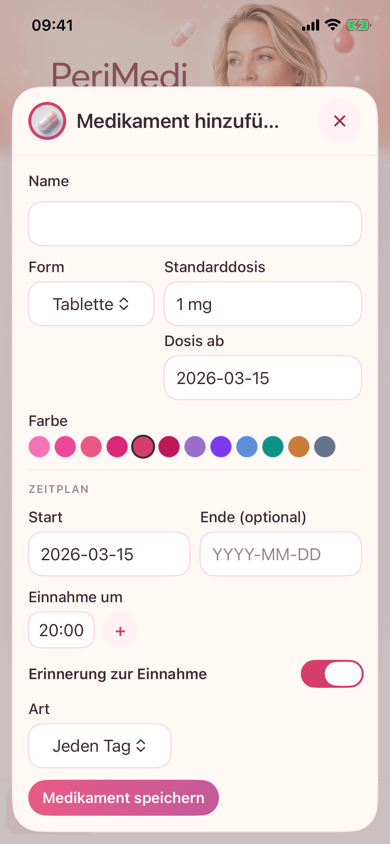
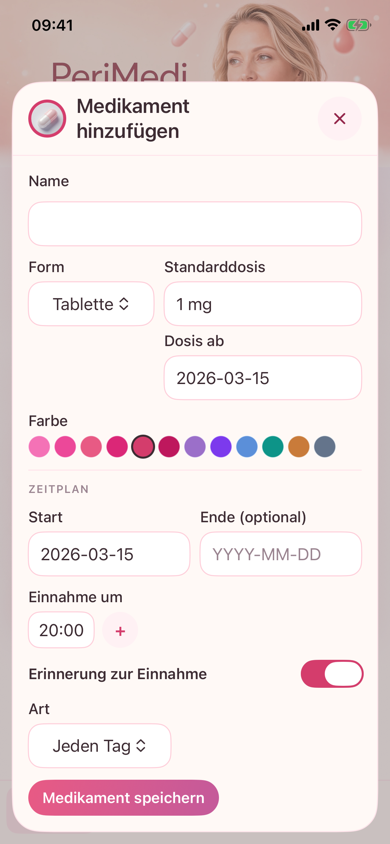
Show the full German add-medication sheet title
Wrap the dialog header so “Medikament hinzufügen” is fully visible.
Banner artwork stays unchanged.

Changed region(s): [[0.0308, 0.0924, 0.9538, 0.1848]]

diff --git a/ios/PeriMedi/Features/Sheets/DialogChrome.swift b/ios/PeriMedi/Features/Sheets/DialogChrome.swift
@@ -40,13 +40,12 @@ struct DialogChrome<Content: View, Footer: View>: View {
 
     @Environment(\.dialogMaxHeight) private var maxHeight
     @State private var bodyHeight: CGFloat = 360
+    @State private var headerHeight: CGFloat = 69
     @State private var footerHeight: CGFloat = 0
-
-    private let headerHeight: CGFloat = 69
 
     var body: some View {
         VStack(spacing: 0) {
-            HStack(spacing: 10) {
+            HStack(alignment: .center, spacing: 10) {
                 if let icon {
                     Image(icon)
                         .resizable()
@@ -59,7 +58,11 @@ struct DialogChrome<Content: View, Footer: View>: View {
                 Text(title)
                     .font(.title3.weight(.semibold))
                     .foregroundStyle(Theme.ink)
-                    .lineLimit(1)
+                    .lineLimit(2)
+                    .minimumScaleFactor(0.85)
+                    .multilineTextAlignment(.leading)
+                    .fixedSize(horizontal: false, vertical: true)
+                    .layoutPriority(1)
                     .a11y(identifier)
                     .onTapGesture(perform: resignKeyboard)
                 Spacer(minLength: 8)
@@ -76,6 +79,12 @@ struct DialogChrome<Content: View, Footer: View>: View {
             }
             .padding(.horizontal, 16)
             .padding(.vertical, 12)
+            .background(
+                GeometryReader { geo in
+                    Color.clear.onAppear { headerHeight = geo.size.height }
+                        .onChange(of: geo.size.height) { _, h in headerHeight = h }
+                }
+            )
 
             Rectangle().fill(Theme.blush100).frame(height: 1)
 
@@ -90,7 +99,7 @@ struct DialogChrome<Content: View, Footer: View>: View {
             }
             .scrollBounceBehavior(.basedOnSize)
             .scrollDismissesKeyboard(.interactively)
-            .frame(height: min(bodyHeight, max(80, maxHeight - headerHeight - footerHeight)))
+            .frame(height: min(bodyHeight, max(80, maxHeight - headerHeight - 1 - footerHeight)))
             .onPreferenceChange(ContentHeightKey.self) { bodyHeight = $0 }
 
             footer()

diff --git a/openspec/specs/ios-app/spec.md b/openspec/specs/ios-app/spec.md
@@ -108,11 +108,11 @@ The More screen SHALL present a Language block (English and German as selectable
 - **THEN** language pills appear first, then the reminders switch, then the visit PDF action, then backup rows, then a Privacy Policy control, and each backup action sits on the trailing side of its row
 
 ### Requirement: Dialog layout
-The medication, period-settings, and symptom editors SHALL use an inset rounded panel over the current screen (not a full-bleed gray system form as the primary look), a header with title and a dedicated close control, and grouped fields. The medication dialog SHALL NOT repeat a second medication heading under the title. The medication color palette SHALL be a single row of swatches with no horizontal scrolling. Take times SHALL sit on a compact row with the Take at label and SHALL wrap onto additional rows when they no longer fit, without shrinking a time chip so its digits stack. Field order under the schedule heading SHALL be start and end dates, then take times, then a labeled Type dropdown (every day, specific days, cyclic) that is only as wide as its selected label. Mode-specific extras SHALL appear only after that dropdown: weekday chips for specific days, and apply/pause day counts for cyclic (no cyclic preset list).
+The medication, period-settings, and symptom editors SHALL use an inset rounded panel over the current screen (not a full-bleed gray system form as the primary look), a header with a fully visible title (not truncated) and a dedicated close control, and grouped fields. The medication dialog SHALL NOT repeat a second medication heading under the title. The medication color palette SHALL be a single row of swatches with no horizontal scrolling. Take times SHALL sit on a compact row with the Take at label and SHALL wrap onto additional rows when they no longer fit, without shrinking a time chip so its digits stack. Field order under the schedule heading SHALL be start and end dates, then take times, then a labeled Type dropdown (every day, specific days, cyclic) that is only as wide as its selected label. Mode-specific extras SHALL appear only after that dropdown: weekday chips for specific days, and apply/pause day counts for cyclic (no cyclic preset list).
 
 #### Scenario: Add medication dialog
 - **WHEN** the user opens add medication
-- **THEN** the panel shows a close control, name, form, dose, a Color-labeled single-row palette, start/end dates, compact take times, then a Type dropdown sized to its selected label, and it does not show a second medication heading under the title
+- **THEN** the panel shows a close control, a fully visible title (English “Add medication”, German “Medikament hinzufügen”), name, form, dose, a Color-labeled single-row palette, start/end dates, compact take times, then a Type dropdown sized to its selected label, and it does not show a second medication heading under the title
 
 #### Scenario: Dose-from date next to dose
 - **WHEN** the user types a dose on add medication
